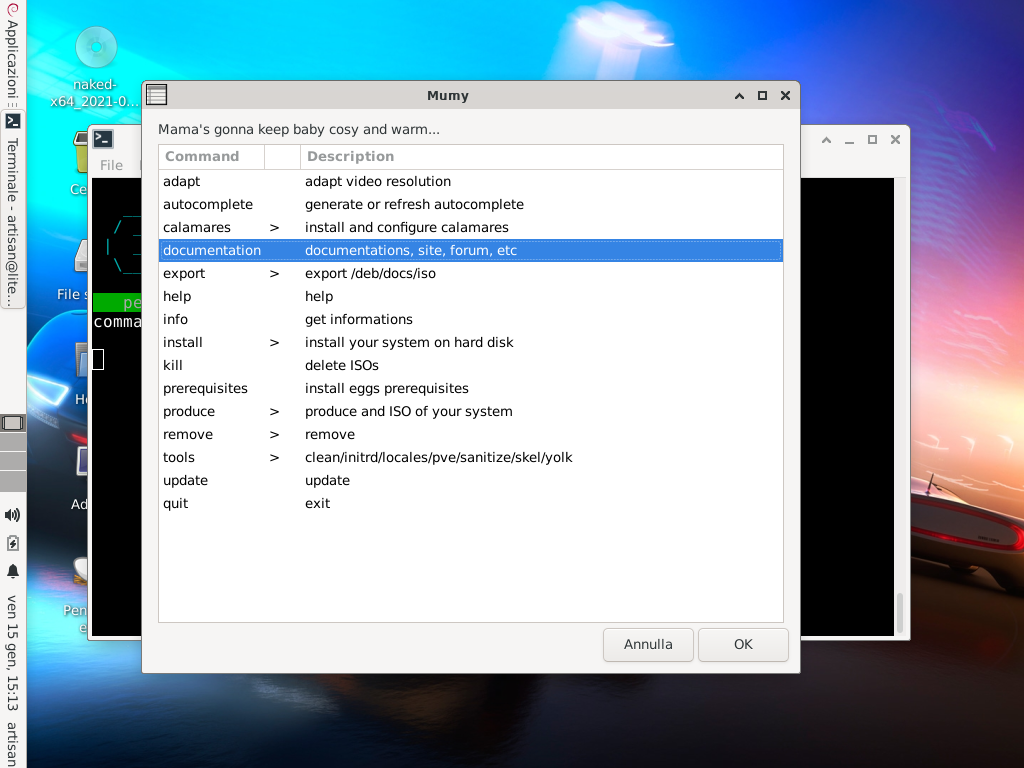
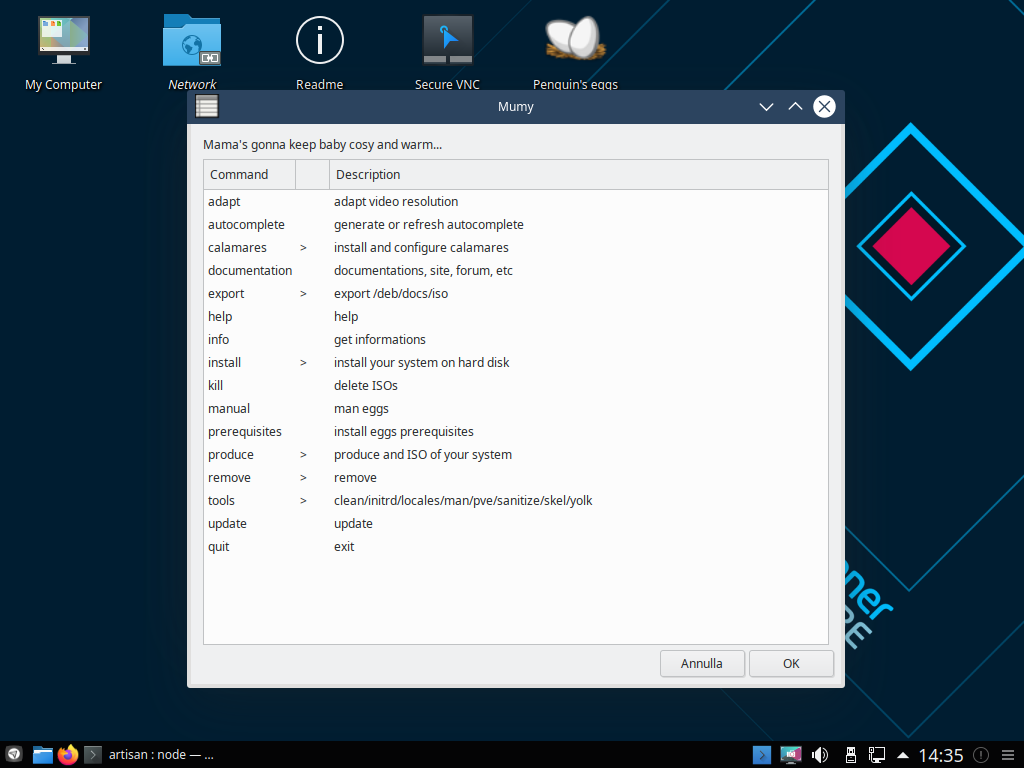
eggs-7.7.18

diff --git a/source/_posts/eggs-7-7-18.md b/source/_posts/eggs-7-7-18.md
@@ -1,0 +1,28 @@
+---
+title: eggs-7.7.18
+layout: post
+date: 2021-01-21 14:22:50
+---
+
+Una carrellata di novità e nuovi arrivi!
+
+Da questa versione è possibile remixare Linux Mint 20.1 Ulyssa, indiscutibilimente, un ottimo prodotto.
+
+![ulyssa](/images/ulyssa.png)
+
+Poi, grazie al suggerimento di un amico polacco, ho testato il remix di netrunner-core, una distro medio/leggera basata su KDE.
+
+![netrunner-core](/images/netrunner-core)
+
+
+In questa versione trovate naturalmente tutte le recenti novità, dal manuale di eggs in formato man, consultabile SEMPRE sia su gui che in ambiente cli, sia connessi che sconnessi. Le due interfacce gradiche mom e dad che permettono un approccio più rapido ad un utilizzo di eggs.
+
+![man](/images/man.png)
+
+![dad](/images/dad.png)
+
+![mom](/images/mom.png)
+
+
+Buon divertimento,
+
